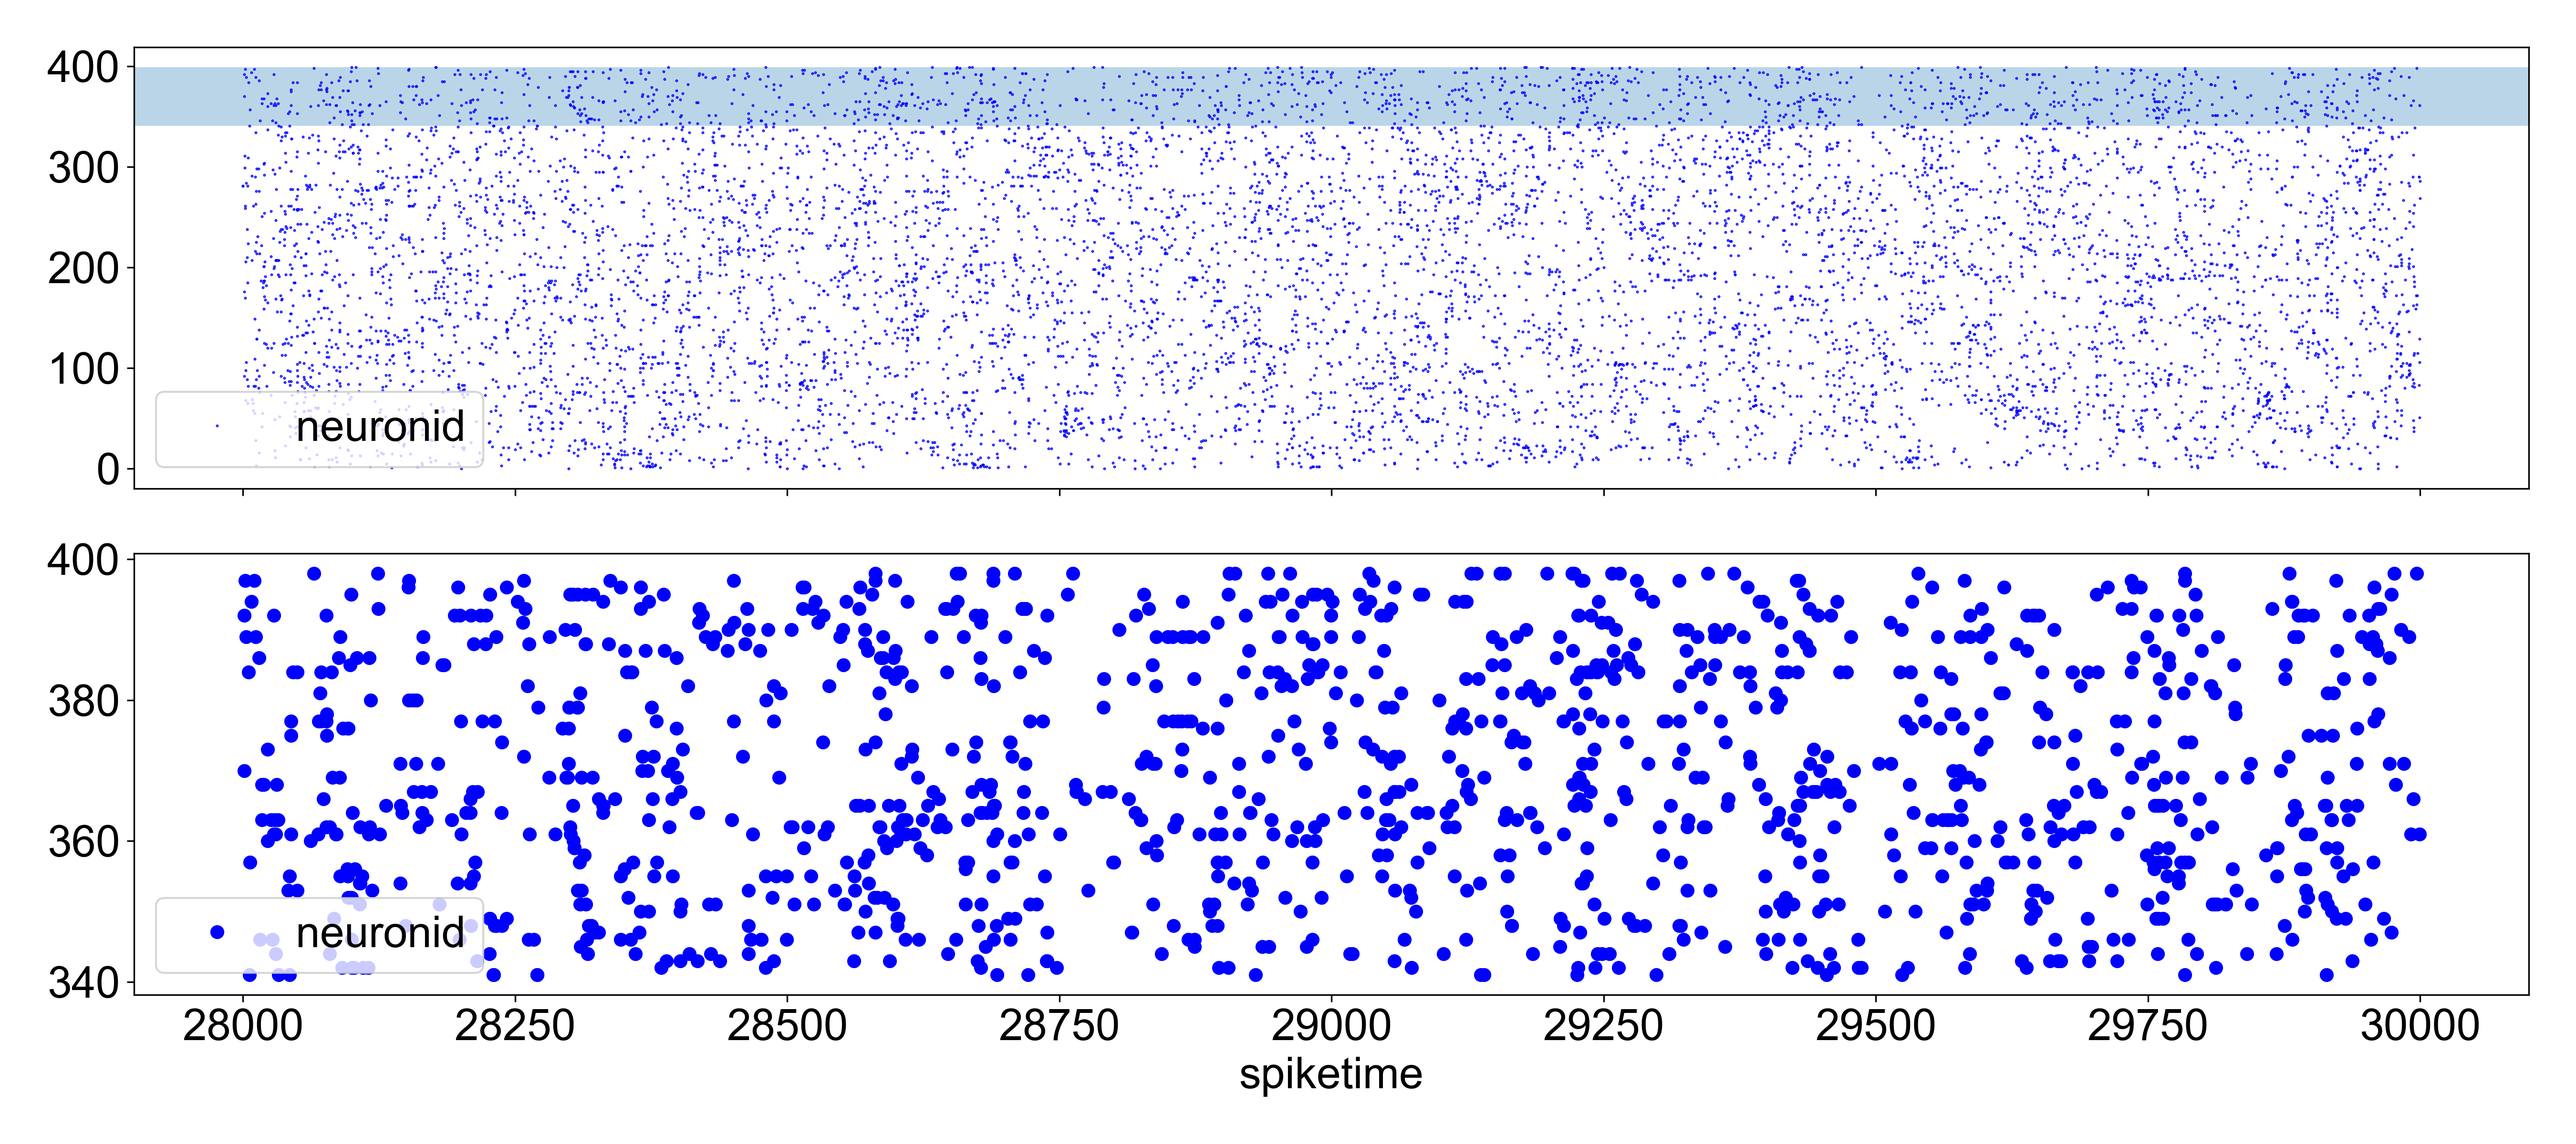
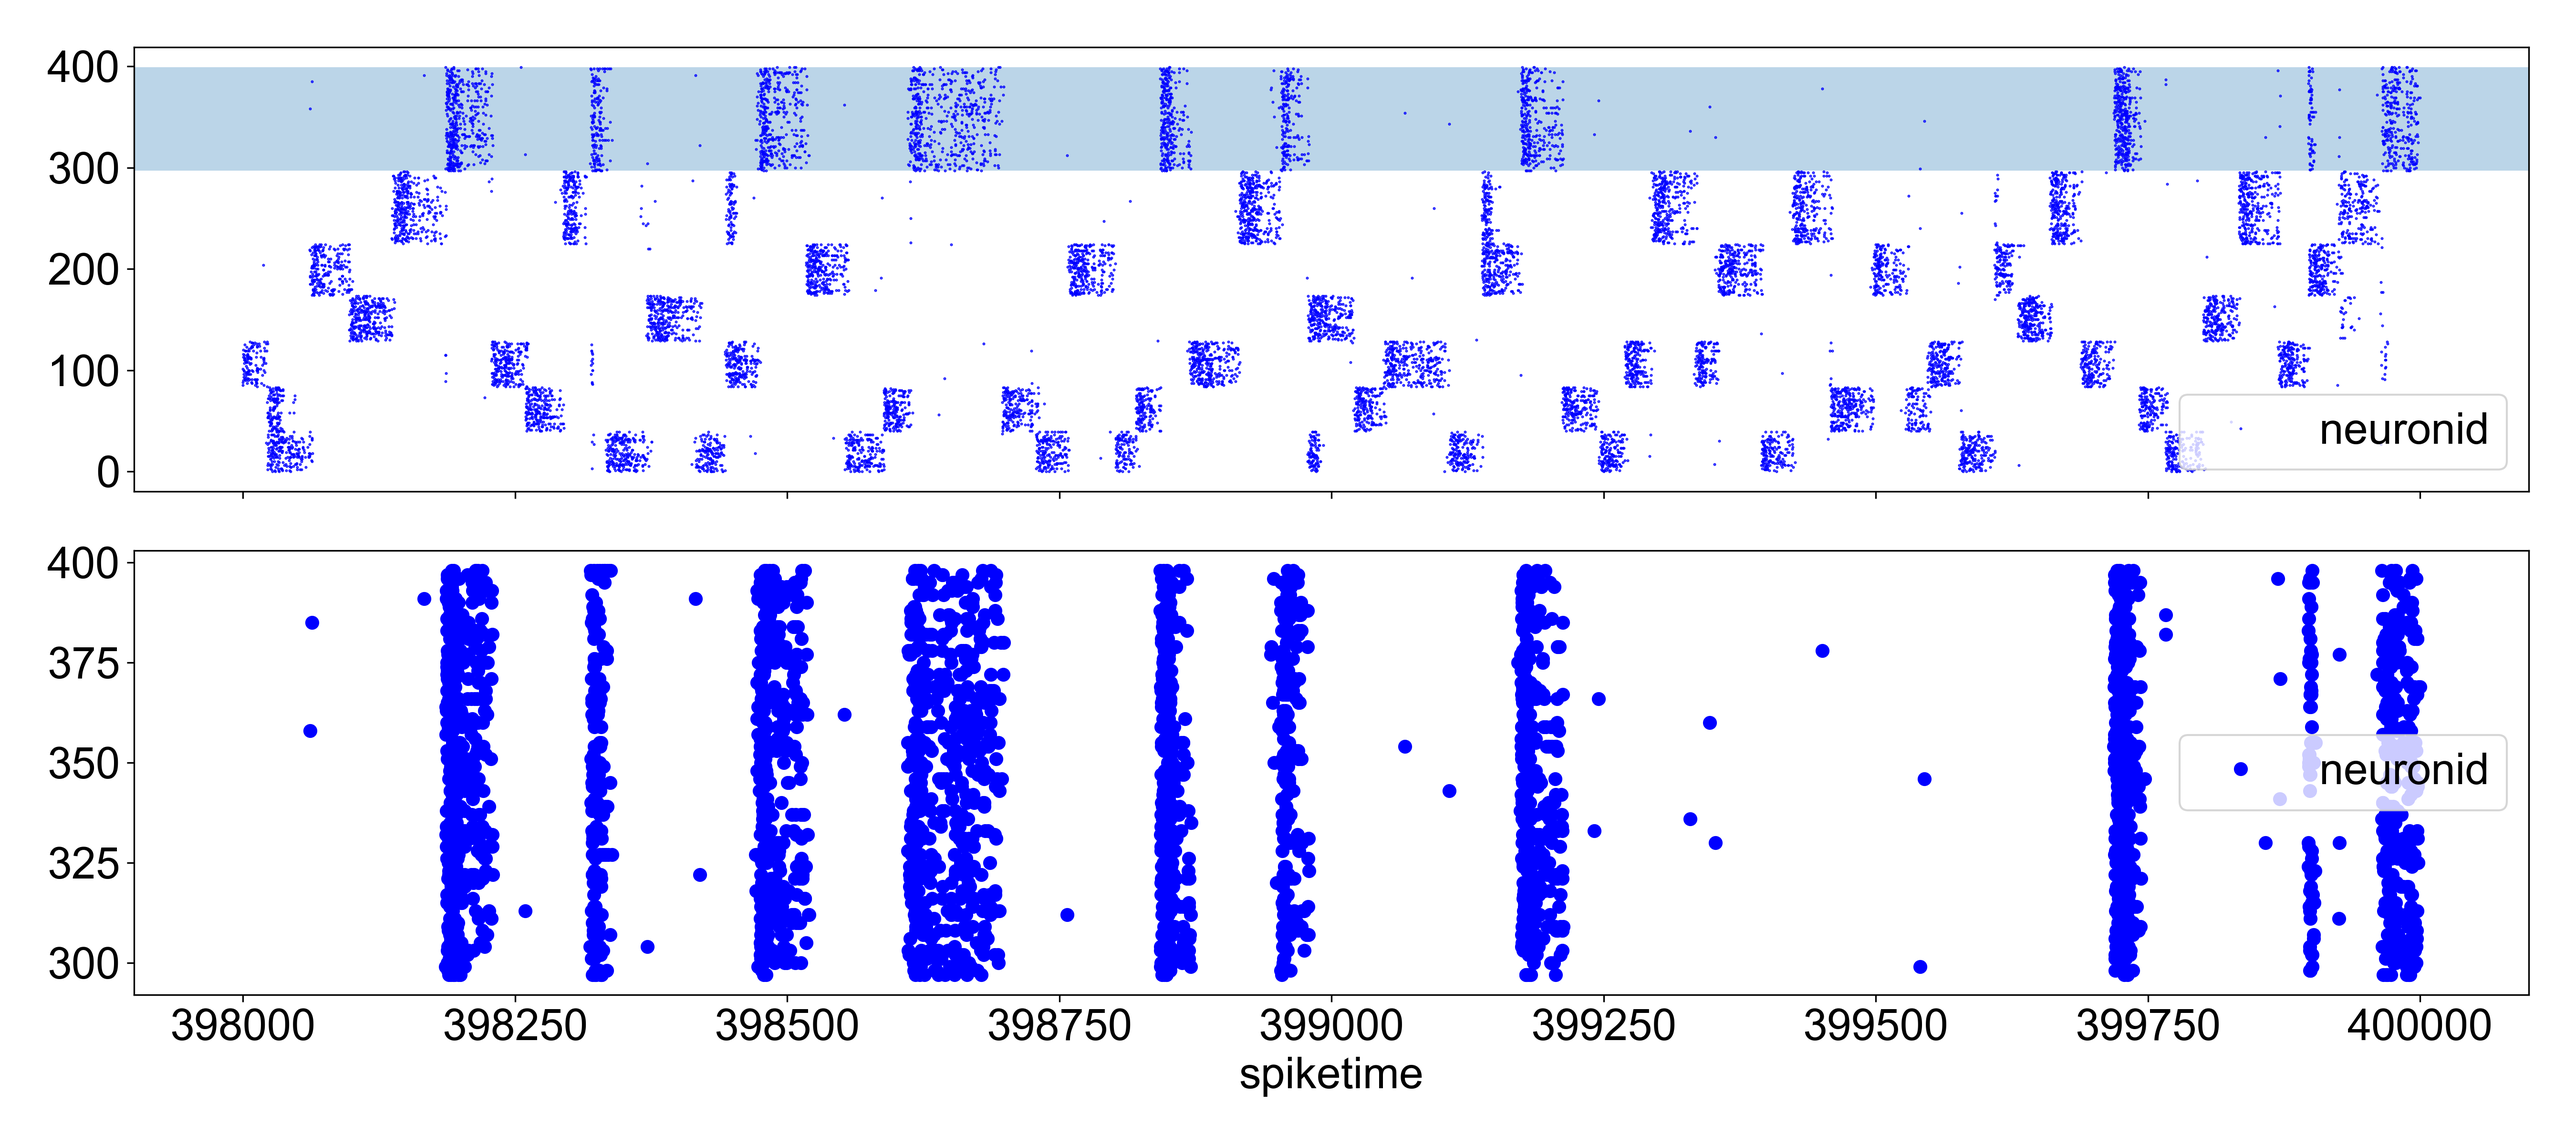
new pics

diff --git a/selforg_demo.py b/selforg_demo.py
@@ -210,7 +210,7 @@ m.set_mex(0.3)    #
 
 # stimulator.train(40000, patternLenMs=patternLenMs, clusterize_=True, callback=callback, rwPatID=rwPatID, random_order_of_patterns=random_order_of_patterns)
 # stimulator.sham(20000, plasticity=False, clusterize_=True, callback=callback)
-stimulator.sham(30000, plasticity=True, clusterize_=True, callback=callback)
+stimulator.sham(400000, plasticity=True, clusterize_=True, callback=callback)
 
 
 # stimulator.perturb(1000, stID=0, enID=100, plasticity=True, clusterize_=False, callback=None)

diff --git a/README.md b/README.md
@@ -58,6 +58,11 @@ You can play around with different parameters and observe the network's emergent
 
 and **_more!_**
 
+## Training, perturbing and pinging
+
+Use the `train` method of the `Stimulator` class. You can also use the `ping` method of the same class to simulate small perturbations of a subset of neurons to test the robustness of the model's weight structure to perturbations. 
+
+
 # TODO
 
 - LIF neurons are already supported but LIF mode is not recommended yet.
